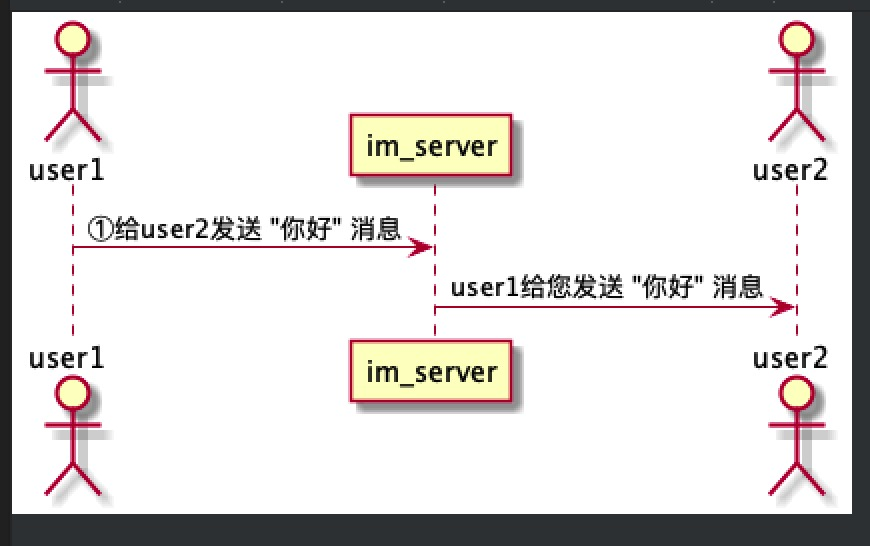
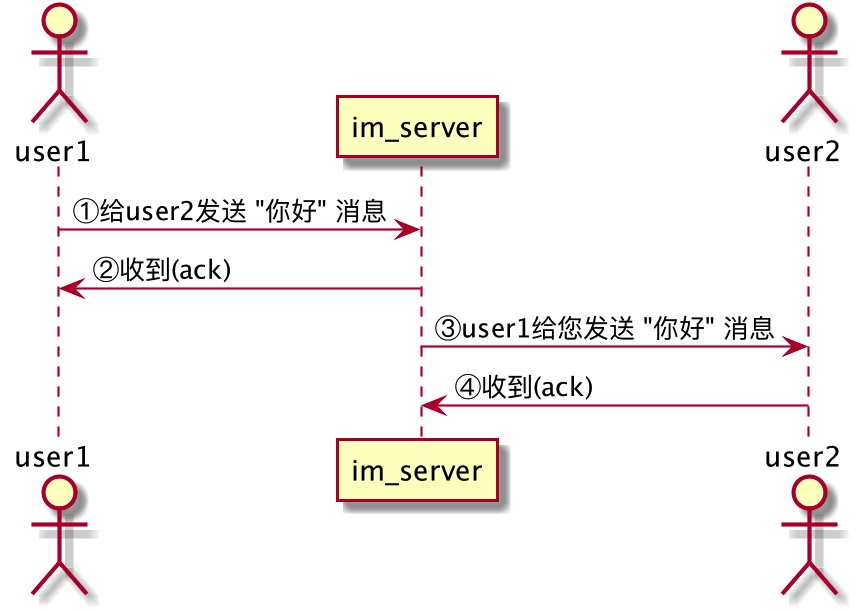
IM消息可靠性

Changed region(s): [[0.0, 0.0, 1.0, 1.0]]

diff --git a/_posts/2020-05-04- IM消息如何保证可靠性.md b/_posts/2020-05-04- IM消息如何保证可靠性.md
@@ -1,0 +1,37 @@
+---
+layout:     post
+title:      IM 消息如何保证可靠性
+subtitle:   IM 消息如何保证可靠性
+date:       2020-05-04
+author:     ZW
+header-img: img/post-bg-os-metro.jpg
+catalog: 	 true
+tags:
+    - IM
+---
+
+
+# 可靠性
+IM的可靠性即保证IM的消息不丢失，一定送达。
+
+# tcp协议不就能保证消息不丢失吗？
+这里的消息不丢失和tcp 协议的可靠性不是一个层面的东西。这里说的消息不丢失是指应用层的消息不丢失。tcp 协议只能保证消息在传输层不丢失。而从传输层到应用层还有一个过程，这里一段出错，就可能会出现明明消息到达了，用户却看不到消息的情况。所以一个完善的im应用必须保证在应用层实现消息可靠
+
+# 2个报文
+![2个报文](/img/20200504_02.jpg)
+
+这里如果 消息①③ 丢失，则"你好" 无法送达。
+
+# 4个报文
+![4个报文](/img/20200504_01.jpg)
+
+相比 [2个报文](#2个报文) 增加了2个ack ,当消息① 没有被正常消费时，user1 则不会收到消息②（ack）。此时重传消息①。这样确保IM_server一定能收到消息①，同样的道理。消息④确保user2一定能收到消息③
+
+
+# 6个报文
+4个报文已经能保证消息不丢失了，为什么还要增加2个呢？
+可能user1发给user2之后user1还要知道user2什么时候收到这个时候就需要增加两个报文来实现
+![6个报文](/img/20200504_03.jpg)
+
+相比 [4个报文](#4个报文) 又增加了消息⑤，如果user2没有收到消息⑤则重推消息④，确保让im_server知道user2已经收到消息
+增加消息⑥，通知user1 ,user2已经收到消息
